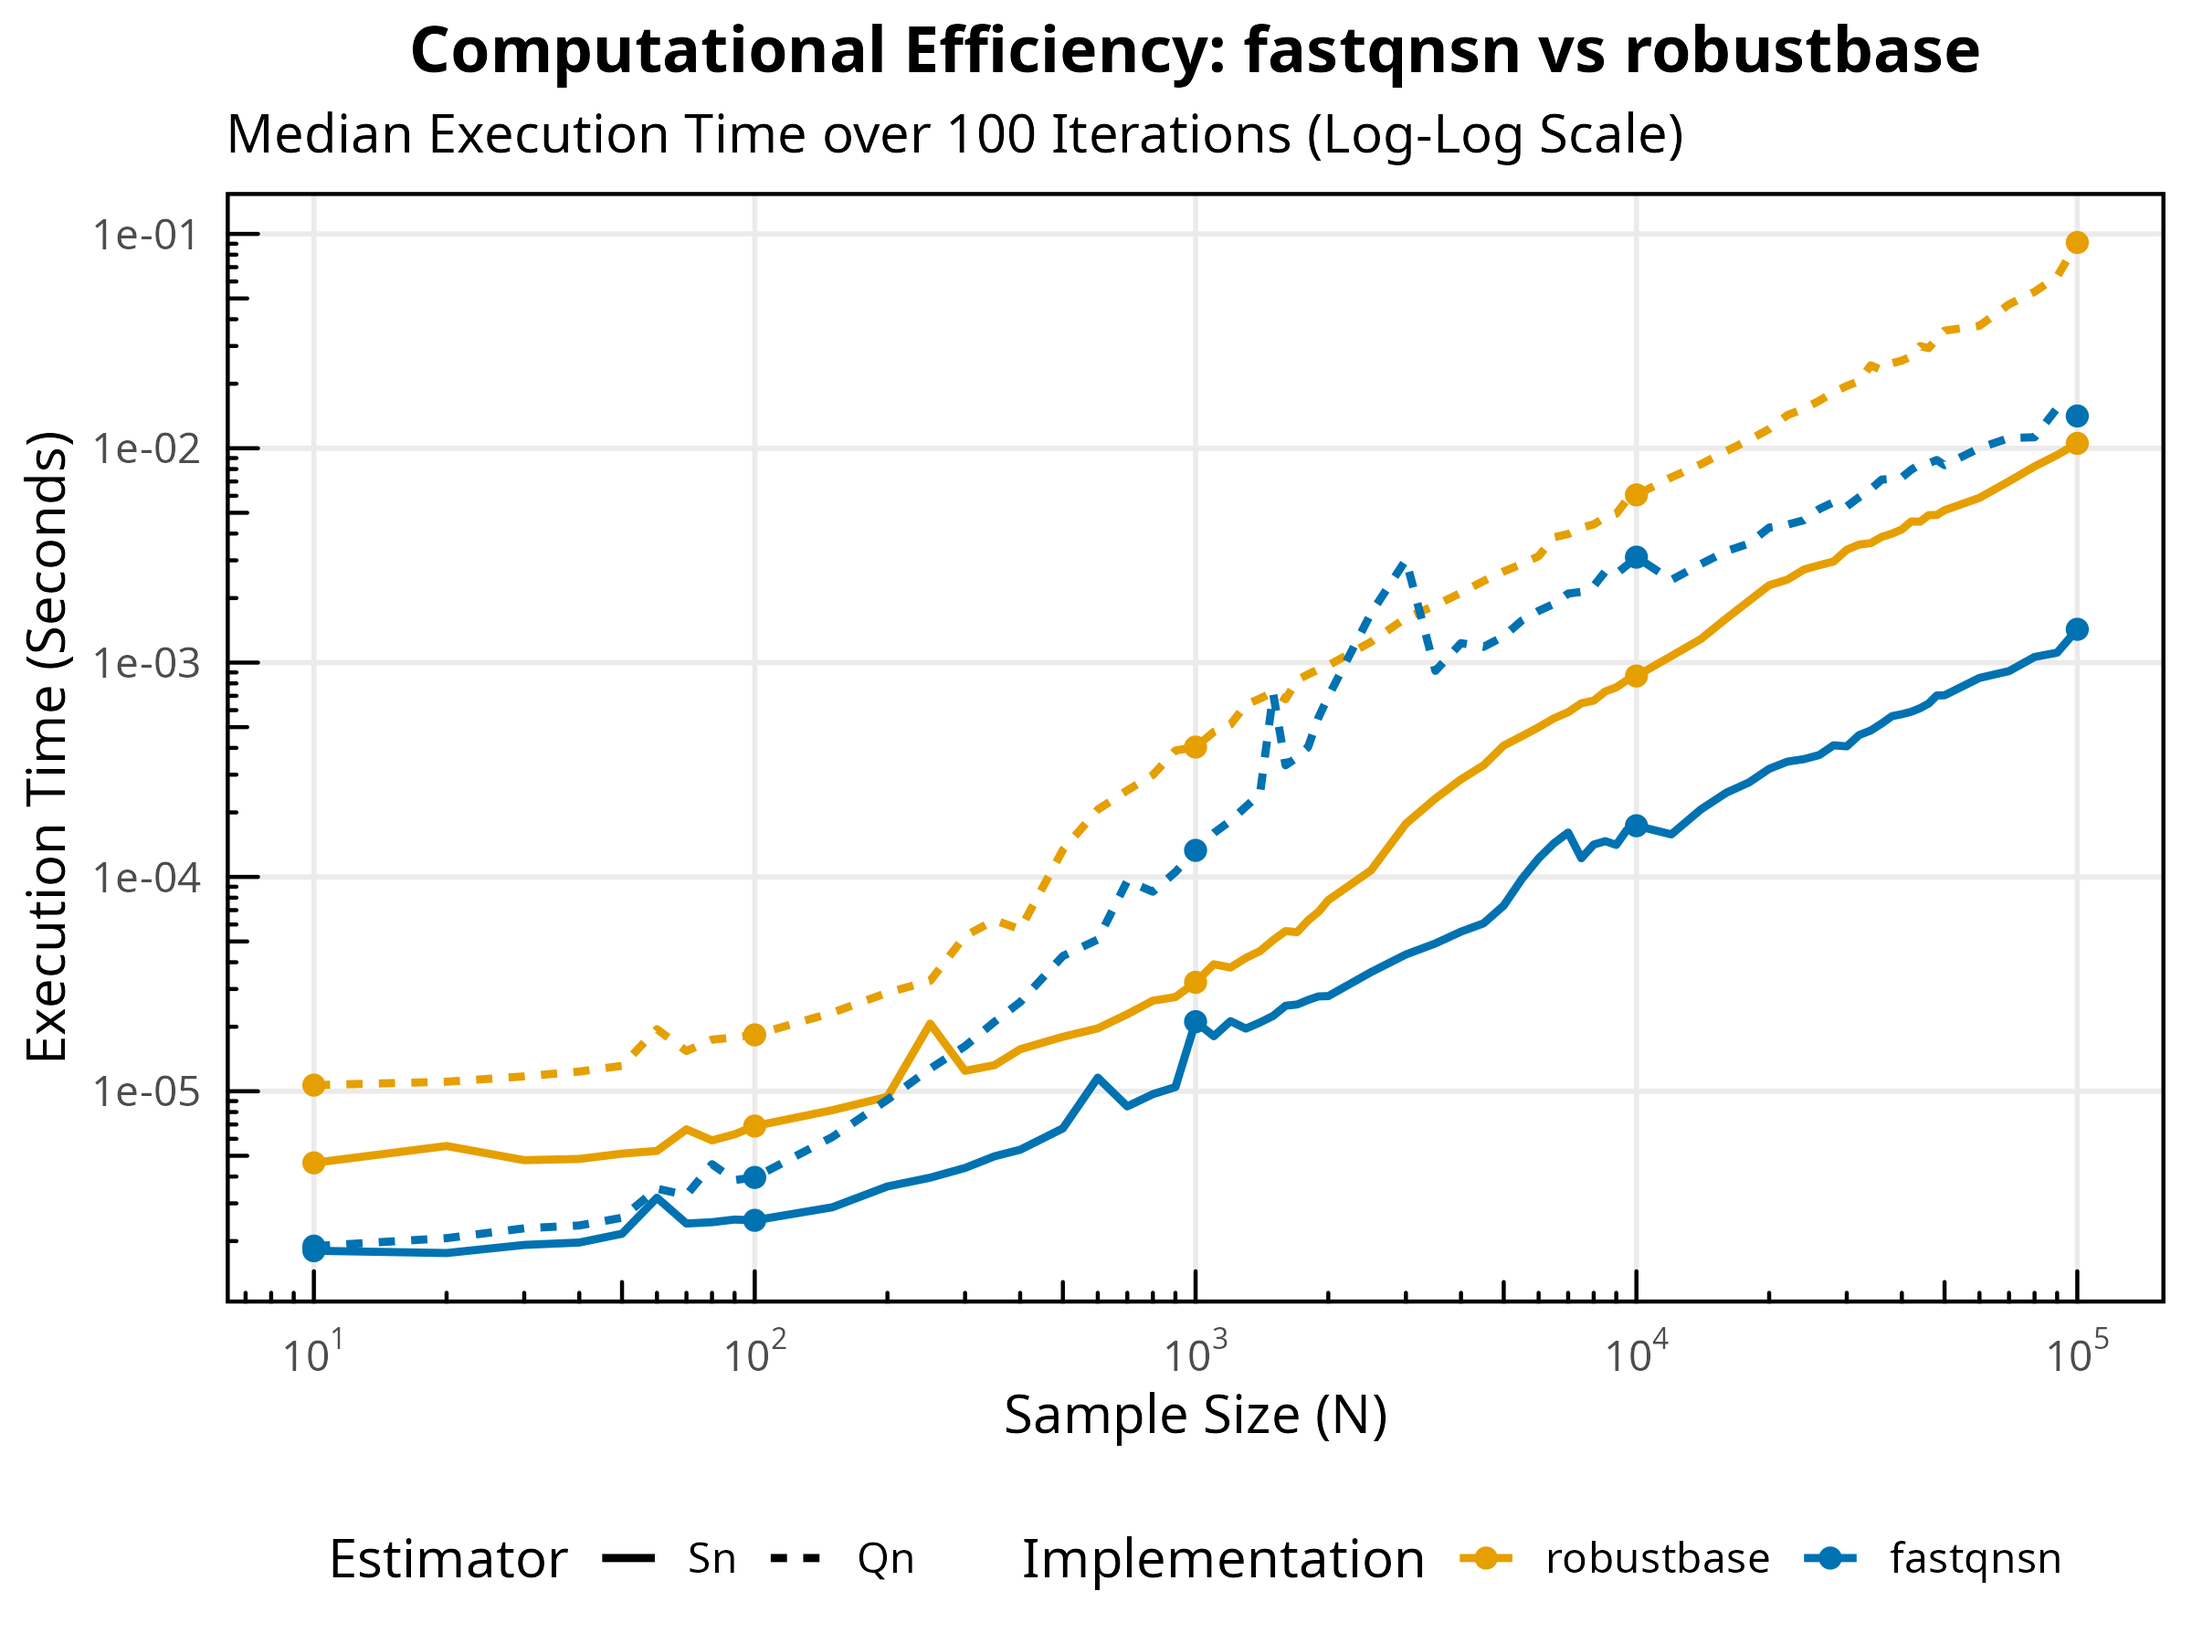
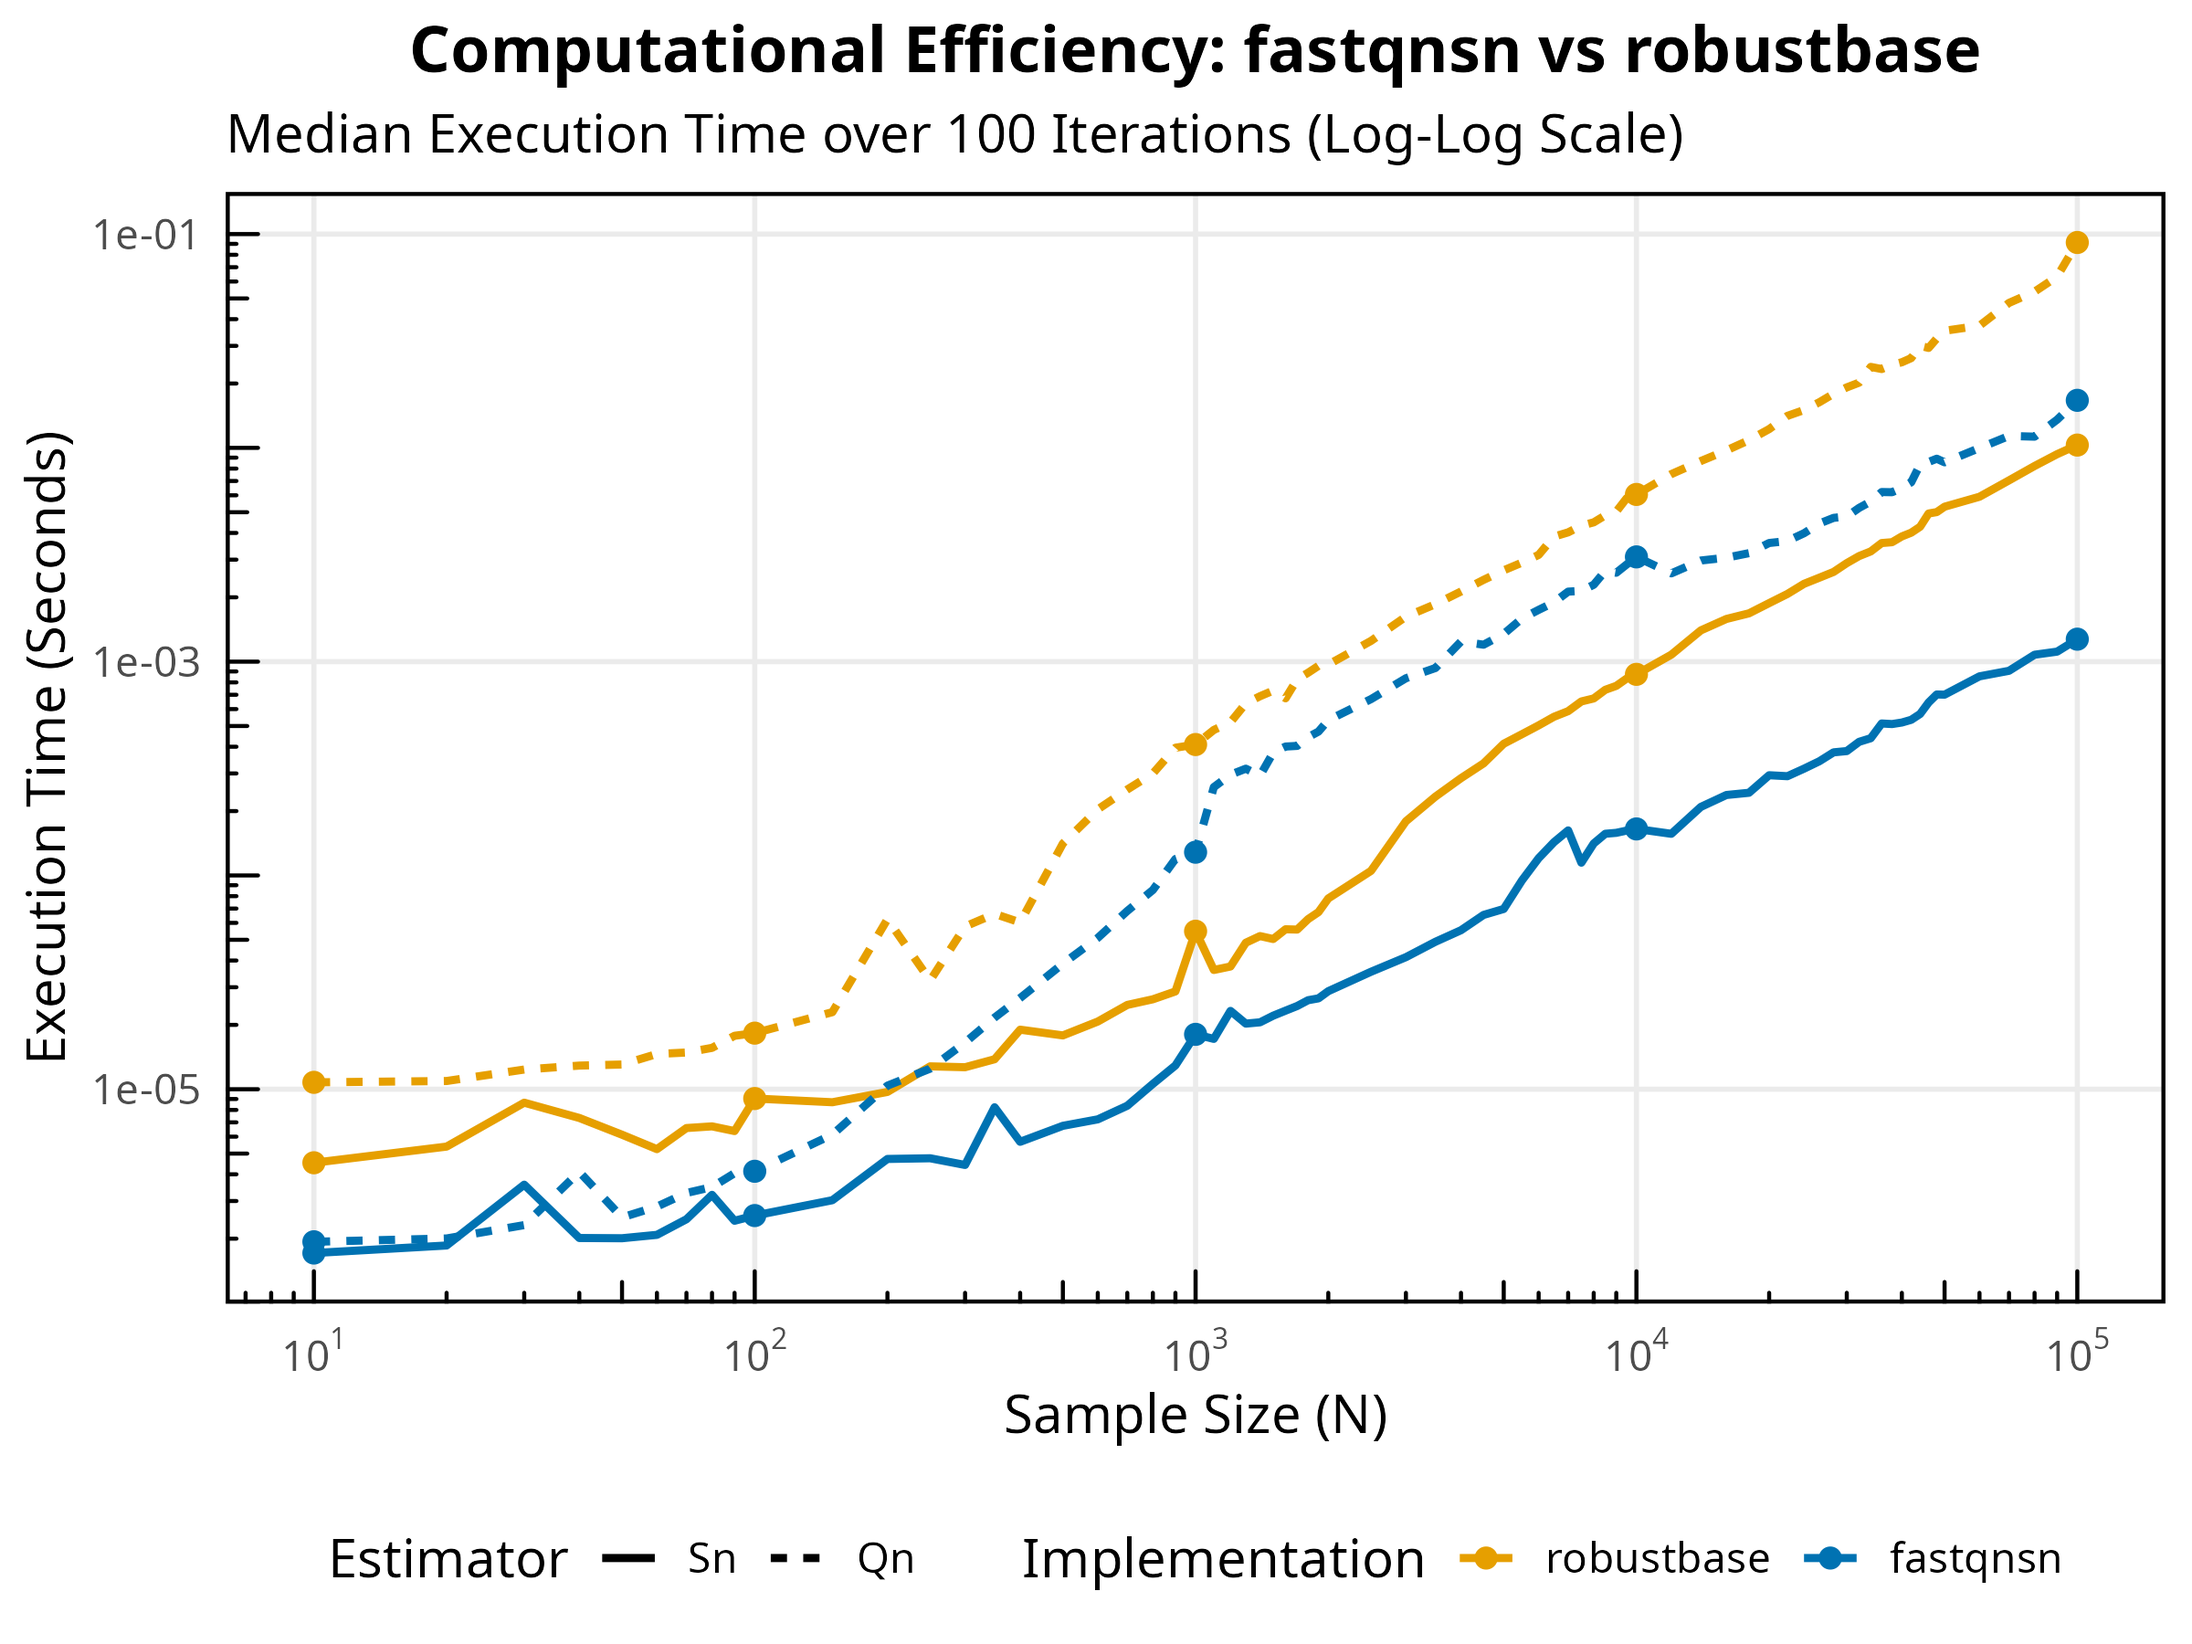
docs: adjust Qn fast-path to N<=1000 and update benchmarks

diff --git a/README.md b/README.md
@@ -6,7 +6,7 @@
 
 ## Key Features
 - **Hybrid Architecture:**
-  - **Micro-Scale ($N \le 3000$ for $Q_n$, $N \le 2000$ for $S_n$):** Ultra-fast $O(n^2)$ stack-allocated exact kernels. At $N=1000$, $Q_n$ evaluates in $\sim 0.13ms$ (bypassing Johnson-Mizoguchi overhead), natively outperforming `robustbase` by over 2x.
+  - **Micro-Scale ($N \le 1000$ for $Q_n$, $N \le 2000$ for $S_n$):** Ultra-fast $O(n^2)$ stack-allocated exact kernels. At $N=1000$, $Q_n$ evaluates in $\sim 0.13ms$ (bypassing Johnson-Mizoguchi overhead), natively outperforming `robustbase` by over 2x.
   - **Mid-Scale ($N < 10000$):** Single-threaded $O(n \log n)$ sweeping algorithms.
   - **Macro-Scale ($N \ge 10000$):** Parallelized counting and refinement via **RcppParallel (Intel TBB)**.
 - **Floyd-Rivest Selection:** Replaces `std::nth_element` throughout, achieving ~30% fewer comparisons.
